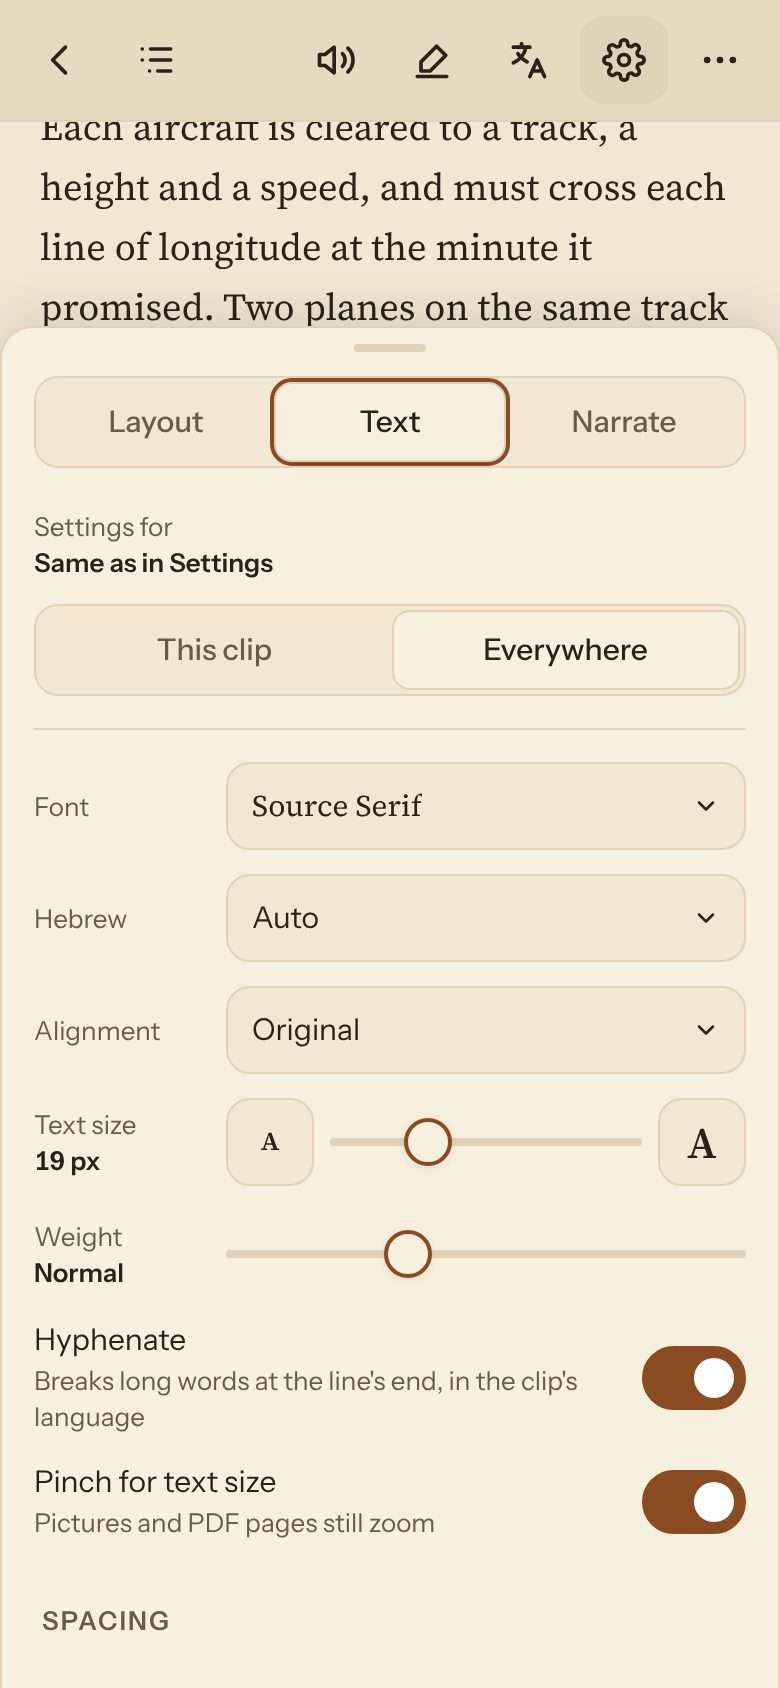
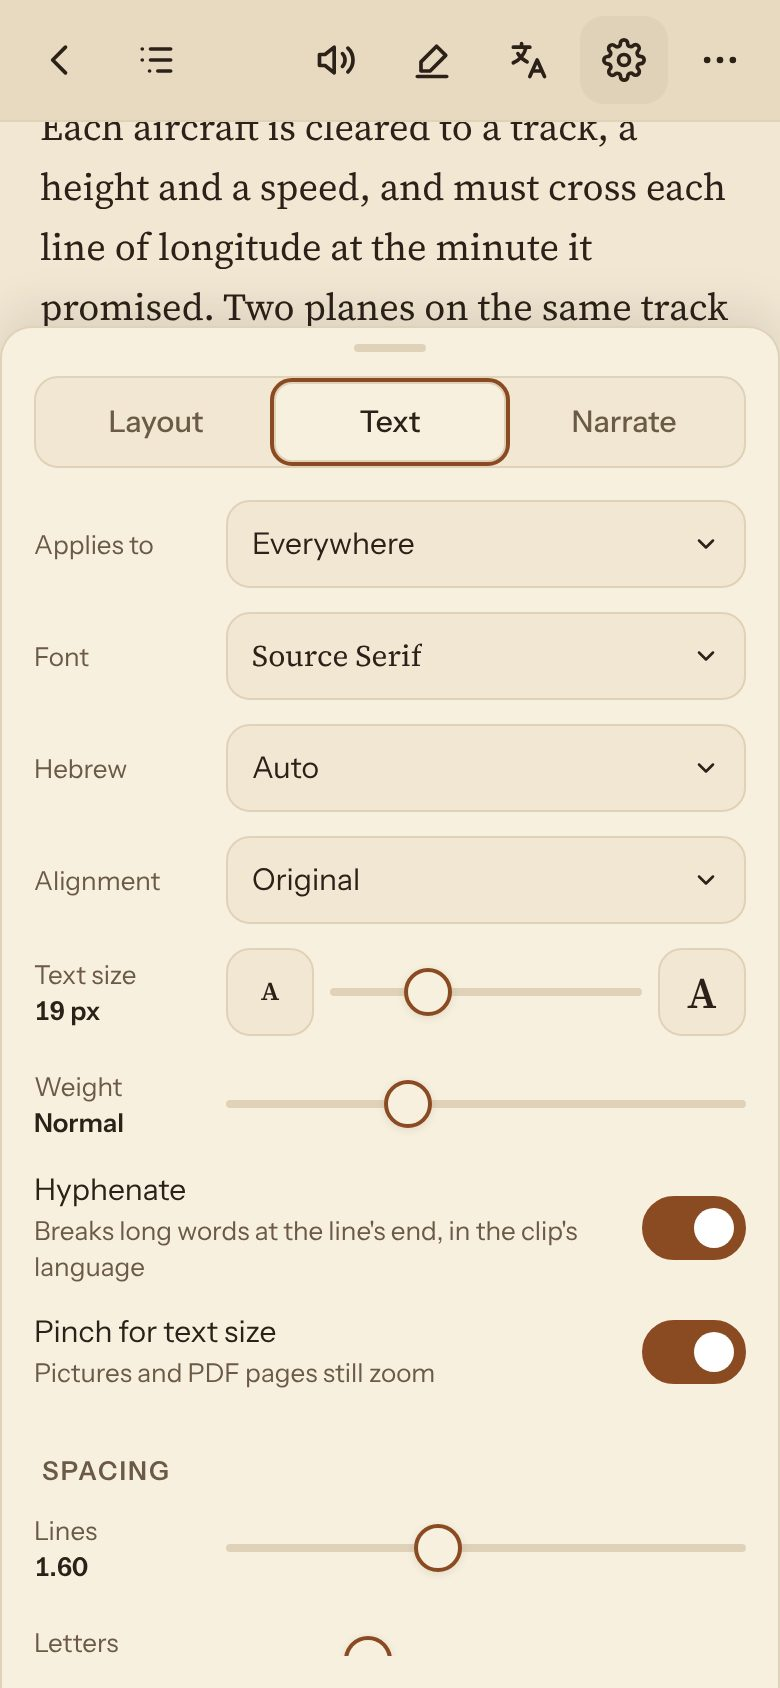
Per-clip settings: one "Applies to" drop-down instead of the switch block
Daniel found the switch, name line, Use everywhere button and divider
confusing. Now one row, "Applies to: Everywhere / This clip / This
collection", at the top of the Aa sheet's Layout and Text; This
collection only when the clip is in one. Use everywhere is gone: the
defaults are set in Settings › Reading.

Claude-Session: https://claude.ai/code/session_01CFeKrk4Ck553n6Q5Fiswqr

diff --git a/src/app-reader.js b/src/app-reader.js
@@ -2171,19 +2171,15 @@ function slider(label, min, max, step, onvalue, pref) {
 const TEXT_PREFS = ["font", "hebrew", "size", "weight", "align", "hyphens", "spacing", "letters", "words", "paras"];
 const prefsOf = (o, keys) => Object.fromEntries(keys.map((k) => [k, o[k]]));
 
-// Settings per clip (Unreleased): which settings the open clip uses, at
-// the top of the Aa sheet's Layout and Text. Use everywhere makes them
-// the defaults.
-function scopeRow(name) {
+// Settings per clip (Unreleased): one row at the top of the Aa sheet's
+// Layout and Text, where the open clip's settings come from.
+function scopeRow() {
   const p = state.open;
-  const opts = [{ value: "clip", label: isBook(p) ? "This book" : "This clip" }];
-  if (p.folder) opts.push({ value: "set", label: "Collection" });
-  opts.push({ value: "all", label: "Everywhere" });
-  return el("div", { class: "rc-scope" },
-    el("div", { class: "rc-scope-head" },
-      el("span", { class: "rc-label" }, "Settings for", el("span", { class: "rc-value", "data-scope-note": "", dir: "auto" })),
-      el("button", { class: "btn-quiet", type: "button", "data-use-everywhere": "", onclick: useEverywhere }, "Use everywhere")),
-    seg(name + "-scope", "Settings for", opts, readingScope(p), setScope, "scope-seg"));
+  const d = dropdown({ label: "Applies to", cls: "field-pick font-pick scope-pick", value: readingScope(p), onpick: setScope, options: [
+    { value: "all", label: "Everywhere" },
+    { value: "clip", label: isBook(p) ? "This book" : "This clip" },
+    ...(p.folder ? [{ value: "set", label: "This collection" }] : [])] });
+  return el("div", { class: "rc-row" }, el("span", { class: "rc-label" }, "Applies to"), d);
 }
 
 let readingGroups = 0;
@@ -2208,7 +2204,7 @@ function readingControls(withTheme) {
     return d;
   };
   const layout = part("layout", "Layout",
-    scoped ? scopeRow(id + "-layout") : null,
+    scoped ? scopeRow() : null,
     row("Show as", seg(id + "-layout", "Show as", [
       { value: "scroll", label: "Scroll" }, { value: "pages", label: "Pages" },
     ], r.layout, (v) => set({ layout: v }))),
@@ -2216,8 +2212,6 @@ function readingControls(withTheme) {
     row("Margins", seg(id + "-margins", "Margins", [
       { value: "narrow", label: "Narrow" }, { value: "normal", label: "Normal" }, { value: "wide", label: "Wide" },
     ], r.margins, (v) => set({ margins: v }))),
-    // What's under the line is the same for every clip.
-    scoped ? el("div", { class: "rc-rule", role: "separator" }) : null,
     ...(brightSwitch(id) || []),
     // Under Layout since 1.47.0: it adds a line to the page, not to the type.
     row("Time left in", seg(id + "-leftIn", "Time left in", [
@@ -2240,7 +2234,7 @@ function readingControls(withTheme) {
     // Only in the reader's own sheet, where a PDF is open.
     withTheme ? pdfDarkSwitch() : null);
   const text = part("text", "Text",
-    scoped ? scopeRow(id + "-text") : null,
+    scoped ? scopeRow() : null,
     row("Font", fontPick("font", "Font",
       FONTS.map((f) => ({ value: f.value, label: f.label, style: "font-family: " + f.family + ", var(--sans)" })))),
     row("Hebrew", fontPick("hebrew", "Hebrew font",
@@ -2286,11 +2280,7 @@ function syncReadingControls(box) {
   const p = "all" in box.dataset ? null : state.open;
   const r = readingPrefs(p);
   const scope = readingScope(p);
-  box.querySelectorAll(".rc-scope").forEach((n) => {
-    n.querySelectorAll("input").forEach((i) => { i.checked = i.value === scope; });
-    n.querySelector("[data-scope-note]").textContent = scope === "clip" ? p.title : scope === "set" ? p.folder : "Same as in Settings";
-    n.querySelector("[data-use-everywhere]").hidden = scope === "all";
-  });
+  box.querySelectorAll(".scope-pick").forEach((d) => d.set(scope));
   box.querySelectorAll(".volume-row").forEach((n) => { n.style.display = r.layout === "pages" ? "" : "none"; });
   const shown = {
     size: r.size + " px", spacing: r.spacing.toFixed(2),
@@ -2313,7 +2303,7 @@ function syncReadingControls(box) {
   for (const k of ["layout", "margins", "spread"]) {
     box.querySelectorAll('input[name$="-' + k + '"]').forEach((i) => { i.checked = i.value === r[k]; });
   }
-  box.querySelectorAll(".font-pick").forEach((d) => d.set(r[d.dataset.pref]));
+  box.querySelectorAll(".font-pick[data-pref]").forEach((d) => d.set(r[d.dataset.pref]));
   // Reset text leaves the layout as it is.
   box.querySelector(".reset").disabled = TEXT_PREFS.every((k) => r[k] === READING_DEFAULT[k]);
 }

diff --git a/test/ui.test.js b/test/ui.test.js
@@ -531,19 +531,15 @@ function zipOf(files) {
         // Settings' copy shows and sets the defaults.
         const box = readingControls(false);
         out.settings = box.querySelector('.range[data-pref="size"]').value;
-        out.settingsScope = box.querySelectorAll(".rc-scope").length;
+        out.settingsScope = box.querySelectorAll(".scope-pick").length;
         // The Aa sheet's Layout and Text start with the switch.
-        out.sheet = readingControls(true).querySelectorAll(".rc-scope").length;
+        out.sheet = readingControls(true).querySelectorAll(".scope-pick").length;
         setScope("all");
         await wait();
         out.back = [readingScope(state.open), readingPrefs().size, readingPrefs().layout, frameSize()];
         document.querySelector("#toast .toast-act").click();
         await wait();
         out.undone = [readingScope(state.open), readingPrefs().size];
-        useEverywhere();
-        await wait();
-        out.everywhere = [readingScope(state.open), readingPrefs(null).size];
-        document.querySelector("#toast .toast-act").click();
         setScope("all");
         await wait();
         out.after = [readingScope(state.open), readingPrefs(null).size, readingPrefs().layout];
@@ -557,7 +553,6 @@ function zipOf(files) {
       assert.strictEqual(got.sheet, 2);
       assert.deepStrictEqual(got.back, ["all", u, "scroll", u + "px"]);
       assert.deepStrictEqual(got.undone, ["clip", u + 4]);
-      assert.deepStrictEqual(got.everywhere, ["all", u + 4]);
       assert.deepStrictEqual(got.after, ["all", u, "scroll"]);
     });
 

diff --git a/src/app-reading.js b/src/app-reading.js
@@ -210,24 +210,6 @@ function setScope(to) {
   const lost = from === "clip" ? "This " + clipWord(p) + "'s own settings" : from === "set" && to === "all" ? "The collection's own settings" : "";
   if (lost && to !== "clip") toast(lost + " are gone.", "Undo", () => { const w = readingPrefs(); store(READING_FOR_KEY, JSON.parse(before)); readingChanged(w, {}); });
 }
-// Use everywhere: these become the defaults and the clip and its
-// collection drop their own.
-function useEverywhere() {
-  const p = state.open;
-  if (!ownable(p)) return;
-  const was = readingPrefs(), f = readingFor(), before = [load(READING_KEY, {}), JSON.stringify(f)];
-  store(READING_KEY, { ...readingPrefs(null), ...ownPart(was) });
-  delete f.clips[p.id];
-  if (p.folder) delete f.sets[p.folder];
-  store(READING_FOR_KEY, f);
-  readingChanged(was, {});
-  toast("These are your settings everywhere now.", "Undo", () => {
-    const w = readingPrefs();
-    store(READING_KEY, before[0]);
-    store(READING_FOR_KEY, JSON.parse(before[1]));
-    readingChanged(w, {});
-  });
-}
 const clipWord = (p) => (p && p.file ? "book" : "clip");
 // A collection renamed keeps its settings; clips and collections that
 // are gone lose theirs (at start).

diff --git a/src/styles.css b/src/styles.css
@@ -1128,13 +1128,6 @@ html.native .find-bar { padding-top: calc(var(--s-2) + env(safe-area-inset-top))
 .reading-controls.split .rc-part > .overline:not(.rc-sub) { display: none; }
 .rc-part > .overline { margin: var(--s-2) 0 calc(-1 * var(--s-1)) var(--s-1); }
 .reader-settings { display: flex; flex-direction: column; gap: var(--s-4); }
-/* Settings per clip: which settings the open clip uses, over a line. */
-.rc-scope { display: flex; flex-direction: column; gap: var(--s-2); padding-bottom: var(--s-4); margin-bottom: var(--s-1); border-bottom: 1px solid var(--line); }
-.rc-scope-head { display: flex; align-items: center; justify-content: space-between; gap: var(--s-3); min-height: var(--tap); }
-.rc-scope-head .rc-label { width: auto; min-width: 0; }
-.rc-scope-head .rc-value { display: block; overflow: hidden; text-overflow: ellipsis; white-space: nowrap; }
-.rc-scope-head .btn-quiet[hidden] { display: none; }
-.rc-rule { border-top: 1px solid var(--line); margin: var(--s-1) 0; }
 .reader-settings .rc-part > .overline { display: none; }
 .reader-settings .rc-part > .overline.rc-sub { display: block; }
 .rc-part > .overline.rc-sub { margin-top: var(--s-4); }

diff --git a/CHANGELOG.md b/CHANGELOG.md
@@ -6,11 +6,11 @@ All notable changes to Carry-on. Newest first.
 
 ### Added
 - Settings per clip, per collection and per book. At the top of the Aa
-  sheet's Layout and Text, "Settings for" picks This clip (This book for
-  a file), Collection or Everywhere; a change then stays there. Font,
+  sheet's Layout and Text, "Applies to" picks Everywhere, This clip (This
+  book for a file) or This collection; a change then stays there. Font,
   size, spacing, alignment, margins and Scroll or Pages can differ; the
-  theme and Narrate stay the same for all. Use everywhere makes a clip's
-  settings the default. They're kept on this device, like the defaults.
+  theme and Narrate stay the same for all. They're kept on this device,
+  like the settings in Settings.
 
 ### Fixed
 - PDFs: a pinch zoom landed off the spot under your fingers, further off
